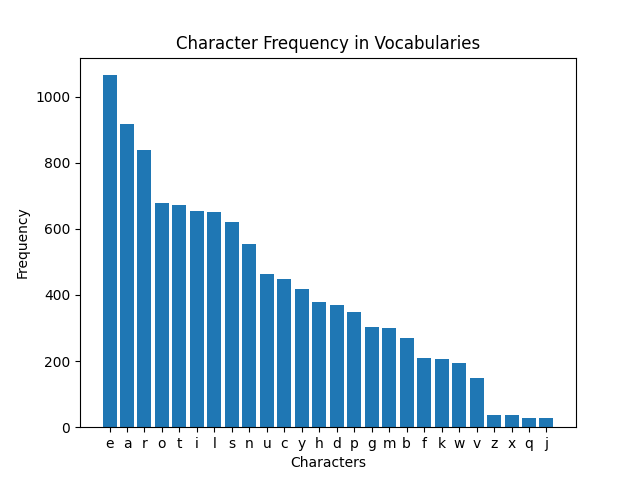
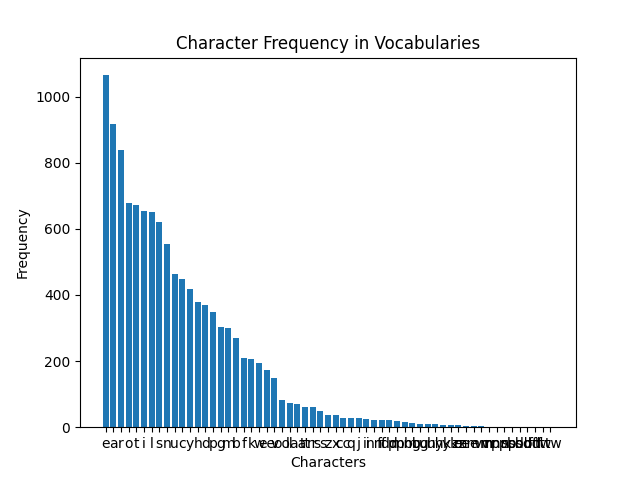
Refactor plotting functionality and add repeat char analysis

Changed region(s): [[0.1562, 0.1562, 0.875, 0.9375]]

diff --git a/utils.py b/utils.py
@@ -1,6 +1,5 @@
 import csv
 from collections import Counter
-import matplotlib.pyplot as plt
 
 def read_words(filename='data/vocabularies.csv'):
     with open(filename, 'r') as f:
@@ -16,21 +15,24 @@ def analyze_char_freq(words):
             char_count[char] += 1
     return char_count
 
+def analyze_repeat_char_freq(words):
+    char_count = Counter()
+    for word in words:
+        count = Counter(word.lower())
+        while count.most_common()[0][1] > 1:
+            char, times = count.most_common()[0]
+            count[char] -= 1
+            count[char*times] += 1
+        char_count.update(count)
+    
+    return char_count
+
 def analyze_unique_char_freq(words):
     char_count = Counter()
     for word in words:
         for char in set(word.lower()):
             char_count[char] += 1
     return char_count
-
-def plot_char_freq(char_count, output_file='data/char_freq.png'):
-    sorted_char_count = sorted(char_count.items(), key=lambda x: x[1], reverse=True)
-    sorted_chars, sorted_freqs = zip(*sorted_char_count)
-    plt.bar(sorted_chars, sorted_freqs)
-    plt.xlabel('Characters')
-    plt.ylabel('Frequency')
-    plt.title('Character Frequency in Vocabularies')
-    plt.savefig(output_file)
 
 def score_words(words, char_count):
     word_scores = []

diff --git a/plot.py b/plot.py
@@ -1,0 +1,17 @@
+from utils import read_words 
+from utils import analyze_char_freq, analyze_repeat_char_freq, analyze_unique_char_freq
+import matplotlib.pyplot as plt
+
+def plot_char_freq(char_count, output_file='data/char_freq.png'):
+    sorted_char_count = sorted(char_count.items(), key=lambda x: x[1], reverse=True)
+    sorted_chars, sorted_freqs = zip(*sorted_char_count)
+    plt.bar(sorted_chars, sorted_freqs)
+    plt.xlabel('Characters')
+    plt.ylabel('Frequency')
+    plt.title('Character Frequency in Vocabularies')
+    plt.savefig(output_file)
+
+if __name__ == "__main__":
+   words = read_words()
+   char_count = analyze_repeat_char_freq(words) # choose function to count character frequency
+   plot_char_freq(char_count)
